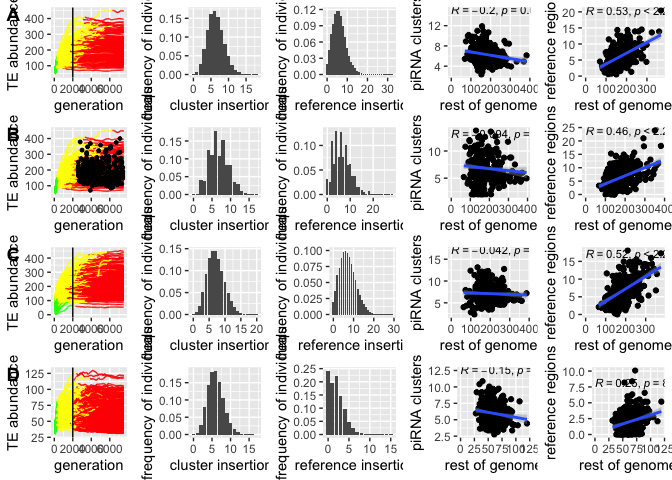
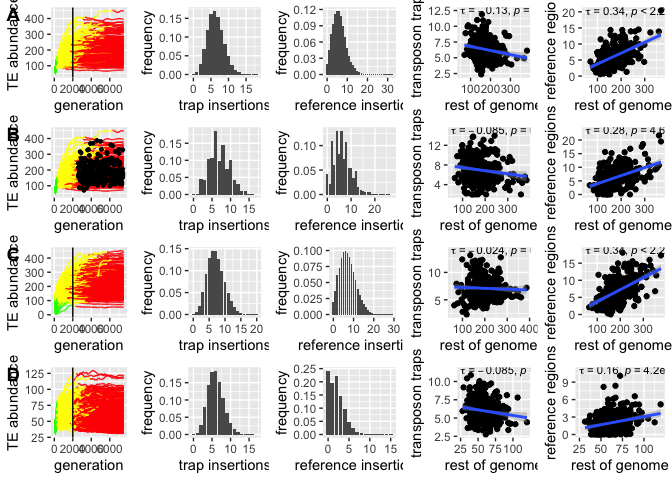
change axis titles, correlation method and text positions

diff --git a/rmd-scripts/main-simulation.md b/rmd-scripts/main-simulation.md
@@ -47,7 +47,7 @@ for (sid in unique(t$abundance)) {
 ts<-unique(subset(t,select=c("abundance","sum")))
 ts$rel<-ts$sum/sum(ts$sum)
 
-histo<-ggplot(ts, aes(x=abundance, y=rel)) + geom_bar(stat = "identity")+ylab("frequency of individuals")+xlab("cluster insertions")
+histo<-ggplot(ts, aes(x=abundance, y=rel)) + geom_bar(stat = "identity")+ylab("frequency")+xlab("trap insertions")
 
 t<-subset(tally,generation==gentx)
 t<-subset(t,type=="ref")
@@ -61,7 +61,7 @@ for (sid in unique(t$abundance)) {
 ts<-unique(subset(t,select=c("abundance","sum")))
 ts$rel<-ts$sum/sum(ts$sum)
 
-historef<-ggplot(ts, aes(x=abundance, y=rel)) + geom_bar(stat = "identity")+ylab("frequency of individuals")+xlab("reference insertions")
+historef<-ggplot(ts, aes(x=abundance, y=rel)) + geom_bar(stat = "identity")+ylab("frequency")+xlab("reference insertions")
 
 
 output<-read.table("/Users/filipwierzbicki/Desktop/trap_model/analysis/simulations/storm2/constant-u/run3-seed/combined/output-constant_u")
@@ -89,9 +89,9 @@ reference$type<-c("reference")
 cr<-rbind(cluster,reference)
 
 
-correlationC<-ggplot(cluster, aes(x=global, y=local)) + geom_point()+stat_cor(method = "pearson", label.x = 0.1, label.y = 15.0,size=3)+ 
-  geom_smooth(method='lm', formula= y~x)+xlab("rest of genome")+ylab("piRNA clusters")
-correlationR<-ggplot(reference, aes(x=global, y=local)) + geom_point()+stat_cor(method = "pearson", label.x = 0.1, label.y = 20.0,size=3)+ 
+correlationC<-ggplot(cluster, aes(x=global, y=local)) + geom_point()+stat_cor(method = "kendall", cor.coef.name="tau", label.x = 50, label.y = 12.5,size=3)+ 
+  geom_smooth(method='lm', formula= y~x)+xlab("rest of genome")+ylab("transposon traps")
+correlationR<-ggplot(reference, aes(x=global, y=local)) + geom_point()+stat_cor(method = "kendall", cor.coef.name="tau", label.x = 50, label.y = 20.0,size=3)+ 
   geom_smooth(method='lm', formula= y~x)+xlab("rest of genome")+ylab("reference regions")
 
 ####trajectories:
@@ -162,9 +162,9 @@ reference$type<-c("reference")
 cr<-rbind(cluster,reference)
 
 
-correlationC<-ggplot(cluster, aes(x=global, y=local)) + geom_point()+stat_cor(method = "pearson", label.x = 0.1, label.y = 13,size=3)+ 
-  geom_smooth(method='lm', formula= y~x)+xlab("rest of genome")+ylab("piRNA clusters")
-correlationR<-ggplot(reference, aes(x=global, y=local)) + geom_point()+stat_cor(method = "pearson", label.x = 0.1, label.y = 23.5,size=3)+ 
+correlationC<-ggplot(cluster, aes(x=global, y=local)) + geom_point()+stat_cor(method = "kendall", cor.coef.name="tau", label.x = 50, label.y = 15,size=3)+ 
+  geom_smooth(method='lm', formula= y~x)+xlab("rest of genome")+ylab("transposon traps")
+correlationR<-ggplot(reference, aes(x=global, y=local)) + geom_point()+stat_cor(method = "kendall", cor.coef.name="tau", label.x = 50, label.y = 23.5,size=3)+ 
   geom_smooth(method='lm', formula= y~x)+xlab("rest of genome")+ylab("reference regions")
 
 ####trajectories:
@@ -207,7 +207,7 @@ for (sid in unique(t$abundance)) {
 ts<-unique(subset(t,select=c("abundance","sum")))
 ts$rel<-ts$sum/sum(ts$sum)
 
-histo<-ggplot(ts, aes(x=abundance, y=rel)) + geom_bar(stat = "identity")+ylab("frequency of individuals")+xlab("cluster insertions")
+histo<-ggplot(ts, aes(x=abundance, y=rel)) + geom_bar(stat = "identity")+ylab("frequency")+xlab("trap insertions")
 
 
 
@@ -226,7 +226,7 @@ for (sid in unique(t$abundance)) {
 ts<-unique(subset(t,select=c("abundance","sum")))
 ts$rel<-ts$sum/sum(ts$sum)
 
-historef<-ggplot(ts, aes(x=abundance, y=rel)) + geom_bar(stat = "identity")+ylab("frequency of individuals")+xlab("reference insertions")
+historef<-ggplot(ts, aes(x=abundance, y=rel)) + geom_bar(stat = "identity")+ylab("frequency")+xlab("reference insertions")
 
 
 
@@ -261,7 +261,7 @@ for (sid in unique(t$abundance)) {
 ts<-unique(subset(t,select=c("abundance","sum")))
 ts$rel<-ts$sum/sum(ts$sum)
 
-histo<-ggplot(ts, aes(x=abundance, y=rel)) + geom_bar(stat = "identity")+ylab("frequency of individuals")+xlab("cluster insertions")
+histo<-ggplot(ts, aes(x=abundance, y=rel)) + geom_bar(stat = "identity")+ylab("frequency")+xlab("trap insertions")
 
 t<-subset(tally,generation==gentx)
 t<-subset(t,type=="ref")
@@ -275,7 +275,7 @@ for (sid in unique(t$abundance)) {
 ts<-unique(subset(t,select=c("abundance","sum")))
 ts$rel<-ts$sum/sum(ts$sum)
 
-historef<-ggplot(ts, aes(x=abundance, y=rel)) + geom_bar(stat = "identity")+ylab("frequency of individuals")+xlab("reference insertions")
+historef<-ggplot(ts, aes(x=abundance, y=rel)) + geom_bar(stat = "identity")+ylab("frequency")+xlab("reference insertions")
 
 
 
@@ -307,9 +307,9 @@ reference$type<-c("reference")
 cr<-rbind(cluster,reference)
 
 
-correlationC<-ggplot(cluster, aes(x=global, y=local)) + geom_point()+stat_cor(method = "pearson", label.x = 0.1, label.y = 17.0,size=3)+ 
-  geom_smooth(method='lm', formula= y~x)+xlab("rest of genome")+ylab("piRNA clusters")
-correlationR<-ggplot(reference, aes(x=global, y=local)) + geom_point()+stat_cor(method = "pearson", label.x = 0.1, label.y = 17.0,size=3)+ 
+correlationC<-ggplot(cluster, aes(x=global, y=local)) + geom_point()+stat_cor(method = "kendall", cor.coef.name="tau", label.x = 50, label.y = 14.0,size=3)+ 
+  geom_smooth(method='lm', formula= y~x)+xlab("rest of genome")+ylab("transposon traps")
+correlationR<-ggplot(reference, aes(x=global, y=local)) + geom_point()+stat_cor(method = "kendall", cor.coef.name="tau", label.x = 50, label.y = 18.7,size=3)+ 
   geom_smooth(method='lm', formula= y~x)+xlab("rest of genome")+ylab("reference regions")
 
 ####trajectories:
@@ -349,7 +349,7 @@ for (sid in unique(t$abundance)) {
 ts<-unique(subset(t,select=c("abundance","sum")))
 ts$rel<-ts$sum/sum(ts$sum)
 
-histo<-ggplot(ts, aes(x=abundance, y=rel)) + geom_bar(stat = "identity")+ylab("frequency of individuals")+xlab("cluster insertions")
+histo<-ggplot(ts, aes(x=abundance, y=rel)) + geom_bar(stat = "identity")+ylab("frequency")+xlab("trap insertions")
 
 t<-subset(tally,generation==gentx)
 t<-subset(t,type=="ref")
@@ -363,7 +363,7 @@ for (sid in unique(t$abundance)) {
 ts<-unique(subset(t,select=c("abundance","sum")))
 ts$rel<-ts$sum/sum(ts$sum)
 
-historef<-ggplot(ts, aes(x=abundance, y=rel)) + geom_bar(stat = "identity")+ylab("frequency of individuals")+xlab("reference insertions")
+historef<-ggplot(ts, aes(x=abundance, y=rel)) + geom_bar(stat = "identity")+ylab("frequency")+xlab("reference insertions")
 
 
 output<-read.table("/Users/filipwierzbicki/Desktop/trap_model/analysis/simulations/storm2/site04xMULT/output_site04xMULT.txt")
@@ -391,9 +391,9 @@ reference$type<-c("reference")
 cr<-rbind(cluster,reference)
 
 
-correlationC<-ggplot(cluster, aes(x=global, y=local)) + geom_point()+stat_cor(method = "pearson", label.x = 0.1, label.y = 12.5,size=3)+ 
-  geom_smooth(method='lm', formula= y~x)+xlab("rest of genome")+ylab("piRNA clusters")
-correlationR<-ggplot(reference, aes(x=global, y=local)) + geom_point()+stat_cor(method = "pearson", label.x = 0.1, label.y = 8,size=3)+ 
+correlationC<-ggplot(cluster, aes(x=global, y=local)) + geom_point()+stat_cor(method = "kendall", cor.coef.name="tau", label.x = 25, label.y = 11.5,size=3)+ 
+  geom_smooth(method='lm', formula= y~x)+xlab("rest of genome")+ylab("transposon traps")
+correlationR<-ggplot(reference, aes(x=global, y=local)) + geom_point()+stat_cor(method = "kendall", cor.coef.name="tau", label.x = 25, label.y = 11,size=3)+ 
   geom_smooth(method='lm', formula= y~x)+xlab("rest of genome")+ylab("reference regions")
 
 ####trajectories:
